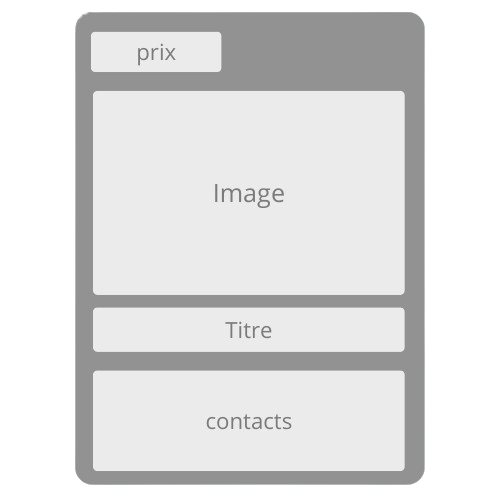
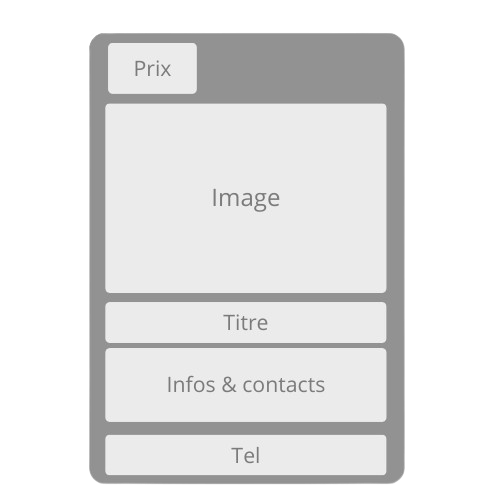
Finishing the card Type D

Changed region(s): [[0.15, 0.0, 0.87, 0.99], [0.42, 0.36, 0.57, 0.42]]

diff --git a/components/Shop.vue b/components/Shop.vue
@@ -1,5 +1,5 @@
 <template>
-    <div v-if="conf" :style="`--bg-color: ${conf.bg}59 ;--bg-card :${conf.bg}50 ; --text-color: ${conf.textColor}; --bg-pub : ${conf.bg}B3 ;`" class="wrapper rounded-xl p-5 border">
+    <div v-if="conf" :style="`--bg-color: ${conf.bg}59 ;--bg-card :${conf.bg}50 ; --text-color: ${conf.textColor}; --bg-pub : ${conf.bg}B3 ; --bg : ${conf.bg}`" class="wrapper rounded-xl p-5 border">
         
         <div v-if="conf.logo" class="flex justify-center">
             <img :src="conf.logo" alt="logo" class="w-1/2 h-auto"/>
@@ -10,18 +10,20 @@
 
         <nav class="flex items-center justify-around gap-10">
             <UInput type="text" icon="i-line-md-search" placeholder="Rechercher ... " 
+                variant="none"
                 :ui="{
-                    base: 'border-white/70 rounded-md placeholder:text-white/60',
+                    base: 'rounded-md placeholder:text-white/60',
+                    root: 'border-2 rounded-lg hover:border-white/60 focus-within:border-white/60 transition-all duration-300 ease-in-out',
                 }"
             />
 
             <ul class="flex items-center gap-3 mr-3">
                 <li>
-                    <UButton icon="i-mynaui-envelope" label="email" :to="`mailto:${conf.email}`" class="bg-white/50 hover:bg-red-500 hover:translate-y-1 transition-all duration-300 ease-in-out"/>
+                    <UButton icon="i-mynaui-envelope" label="email" :to="`mailto:${conf.email}`" class="bg-white/50 hover:bg-red-500 shadow shadow-black/70 hover:translate-y-1 transition-all duration-300 ease-in-out"/>
                 </li>
                 
                 <li>
-                    <UButton icon="i-lineicons-phone" label="phone" :to="`tel:${conf.phone}`" class="bg-white/50 hover:bg-blue-500 hover:translate-y-1 transition-all duration-300 ease-in-out"/>
+                    <UButton icon="i-lineicons-phone" label="phone" :to="`tel:${conf.phone}`" class="bg-white/50 hover:bg-blue-500 shadow shadow-black/70 hover:translate-y-1 transition-all duration-300 ease-in-out"/>
                 </li>
             </ul>
         </nav>
@@ -35,18 +37,26 @@
                 <h2 class="logo font-extrabold text-6xl mb-10 ml-4">{{ conf.name }}</h2>
                 <p>{{ conf.description }}</p>
                 <address v-if="conf.address" class="border border-white/40 cursor-pointer rounded-xl bg-black/20 p-2 w-max mt-8">{{ conf.address }}</address>
-             </div>
-             <div>
-                 <UCarousel
+            </div>
+                        
+            <div class="border-l-2 border-white/30 border-dashed w-full h-full overflow-hidden flex items-center justify-center ">
+                <UCarousel
                     v-slot="{ item }"
                     loop
                     :autoplay="{ delay: 5000 }"
                     :items="ProdPics"
-                    :ui="{}"
+                    :ui="{ item: 'w-full h-full' }"
                 >
-                    <img :src="item" class="h-[98%] border-4 rounded-2xl w-[98%] object-center" alt="product image" />
+                    <!-- Container to constrain image dimensions -->
+                    <div class="w-full h-full flex items-center justify-center p-1">
+                    <img 
+                        :src="item" 
+                        class="w-[500px] aspect-square object-scale-down rounded-2xl"
+                        alt="product image" 
+                    />
+                    </div>
                 </UCarousel>
-             </div>
+            </div>
         </section>
 
         <section>
@@ -96,6 +106,16 @@
 
                     <div v-else-if="conf.cardType ==='D' ">
                         <!-- D TYPE COMPONENET -->
+                         <CardsTypeD 
+                            :product="product"
+                            :fb="conf.fb_url"
+                            :ig="conf.ig_url"
+                            :email="conf.email"
+                            :phone="conf.phone"
+                            :address="conf.address"
+                            :shipping="conf.livraison"
+                            :style="`--font-style: 'Great Vibes', cursive;`"
+                        />
                     </div>
                 </div>
             </div>
@@ -135,6 +155,7 @@
 </template>
     
 <script setup lang='ts'>
+import Card from '@nuxt/ui/runtime/components/Card.vue';
 import type { Produit, shopConfT } from '~/types/GeneraleT';
 
 
@@ -143,14 +164,23 @@ import type { Produit, shopConfT } from '~/types/GeneraleT';
         shopProd : Produit[],
     }>()
 
-    const ProdPics = [
-  'https://picsum.photos/468/468?random=1',
-  'https://picsum.photos/468/468?random=2',
-  'https://picsum.photos/468/468?random=3',
-  'https://picsum.photos/468/468?random=4',
-  'https://picsum.photos/468/468?random=5',
-  'https://picsum.photos/468/468?random=6'
-]
+//     const ProdPics = [
+//   'https://picsum.photos/468/468?random=1',
+//   'https://picsum.photos/468/468?random=2',
+//   'https://picsum.photos/468/468?random=3',
+//   'https://picsum.photos/468/468?random=4',
+//   'https://picsum.photos/468/468?random=5',
+//   'https://picsum.photos/468/468?random=6'
+// ]
+
+const ProdPics = [
+  'https://fakestoreapi.com/img/81fPKd-2AYL._AC_SL1500_.jpg',  // Backpack
+  'https://fakestoreapi.com/img/71-3HjGNDUL._AC_SY879._SX._UX._SY._UY_.jpg',  // Shirt
+  'https://fakestoreapi.com/img/71li-ujtlUL._AC_UX679_.jpg',  // Jeans
+  'https://fakestoreapi.com/img/71YXzeOuslL._AC_UY879_.jpg',  // Tech
+  'https://fakestoreapi.com/img/61pHAEJ4NML._AC_UX679_.jpg',  // Jewelry
+  'https://fakestoreapi.com/img/51UDEzMJVpL._AC_UL640_QL65_ML3_.jpg'  // Electronics
+];
 
 
 //TODO: find a way to get the products using conf.products ... 

diff --git a/components/Cards/TypeD.vue b/components/Cards/TypeD.vue
@@ -1,13 +1,38 @@
 <template>
-        <div class="border-2 rounded-lg p-4 flex flex-col items-center CardColor relative shadow-lg shadow-black/80 hover:shadow-white/50 transition-all duration-300 ease-in-out">
-            <div class="w-[100px] h-[100px] bg-white absolute right-0 top-0 rotate-12 -z-10" 
+        <div class="rounded-lg p-4 flex flex-col items-center CardColor relative bg-[var(--deep-dark-blue)] shadow-lg shadow-black/80 hover:shadow-white/50 transition-all duration-300 ease-in-out curve">
+            <div class="w-[100px] h-[100px] bg-white absolute right-0 bottom-0 rotate-12 -z-10" 
                 style="clip-path:polygon(50% 0%, 61% 35%, 98% 35%, 68% 57%, 79% 91%, 50% 70%, 21% 91%, 32% 57%, 2% 35%, 39% 35%);">
 
             </div>
-            <div class="w-max p-2 self-start font-[--font-style] flex items-center gap-2">
-                <UIcon name="i-grommet-icons-money" class="text-md text-yellow-400" />
-                <p class="text-[11px]"><span class="text-2xl font-extrabold ">{{ product.puv }}</span> DZD</p>
-            </div>
+
+
+<div class="flex items-center justify-between w-full mb-3 ">
+
+    <ul class="flex gap-3 items-center">
+
+              <li v-if="fb">
+                  <a :href="fb" target="_blank" class="flex items-center gap-2 py-1 px-2 bg-[#3b5998] rounded-md hover:-translate-y-1 transition-all duration-300 ease-in-out">
+                      <UIcon name="i-mdi-facebook" class="text-2xl" />                            
+                  </a>
+              </li>
+
+              <li v-if="ig">
+                  <a :href="ig" target="_blank" class="flex items-center gap-2 py-1 px-2 bg-gradient-to-r from-purple-600 via-pink-600 to-yellow-400 rounded-md hover:-translate-y-1.5 transition-all duration-300 ease-in-out">
+                     <UIcon name="i-hugeicons-instagram" class="text-2xl" />                                                        
+                  </a>
+              </li>
+
+               <li >
+                  <a :href="`mailto:${email}`" target="_blank" class="flex items-center gap-2 py-1 px-2 bg-gradient-to-r from-red-500 to bg-red-700 rounded-md hover:-translate-y-2 transition-all duration-300 ease-in-out">
+                     <UIcon name="i-material-symbols-mail" class="text-2xl" />
+                  </a>
+              </li>
+    </ul>
+        <div class="w-max p-1 rounded font-[--font-style] flex items-center gap-2 bg-black/30 ">
+            <p class="text-[11px]"><span class="text-lg font-extrabold ">{{ product.puv }}</span> DZD</p>
+            
+        </div>
+</div>
 
             <div class="relative">
                 <img v-if="product.img" :src="product.img" :alt="product.name" class="w-[100%] h-[300px] border-2 rounded-3xl  object-contain" />
@@ -31,10 +56,11 @@
                     </template>
                 </UModal>
             </div>
-
+            
             <div class="mt-4 mb-2">
                 <p class="text-xl font-bold">{{ product.name }}</p>
             </div>
+
 
             <div class="self-start border-t-2 w-full pt-3 ">
                 <p class="font-extrabold flex items-center gap-2"><span class="flex items-center gap-1"><UIcon name="i-carbon-delivery"/> Livraison :</span>
@@ -43,27 +69,8 @@
                 </p>
 
                 <p class="font-extrabold flex items-center gap-2 mb-3" v-if="address"><span class="flex items-center gap-1"><UIcon name="i-entypo-address"/> Addresse :</span> <span class="text-sm">{{ address }}</span></p>
-                <span class="text-sm w-max px-2 py-1 rounded bg-white/10 flex items-center gap-1"><UIcon name="grommet-icons:contact" /> Contactez nous sur</span>
-                <ul class="flex gap-3 align-center justify-center mt-6 mb-3">
-
-                    <li v-if="fb">
-                        <a :href="fb" target="_blank" class="flex items-center gap-2 py-1 px-2 bg-[#3b5998] rounded-md hover:-translate-y-1 transition-all duration-300 ease-in-out">
-                            <UIcon name="i-mdi-facebook" class="text-2xl" />                            
-                        </a>
-                    </li>
-
-                    <li v-if="ig">
-                        <a :href="ig" target="_blank" class="flex items-center gap-2 py-1 px-2 bg-gradient-to-r from-purple-600 via-pink-600 to-yellow-400 rounded-md hover:-translate-y-1.5 transition-all duration-300 ease-in-out">
-                           <UIcon name="i-hugeicons-instagram" class="text-2xl" />                                                        
-                        </a>
-                    </li>
-
-                     <li >
-                        <a :href="`mailto:${email}`" target="_blank" class="flex items-center gap-2 py-1 px-2 bg-gradient-to-r from-red-500 to bg-red-700 rounded-md hover:-translate-y-2 transition-all duration-300 ease-in-out">
-                           <UIcon name="i-material-symbols-mail" class="text-2xl" />
-                        </a>
-                    </li>
-                </ul>
+              
+                
 
                     <span class="text-sm font-extrabold w-max px-2 py-1 rounded bg-white/10">OU Appelez nous</span>
                     <div class="mt-6">
@@ -91,7 +98,12 @@ import type { Produit } from '~/types/GeneraleT';
         shipping : boolean,
     }>()
 </script>
-    
-<style>
+      
+<style scoped>
+.curve{
 
+     clip-path: path (M 10,20 L 68,20 A 10,18 0,0,0 70,10 L 70,10 A 10,10 0,0,1 80,0 L 140,0 A 10,10 0,0,1 150,10 L 158,190 A 10,10 0,0,1 148,200 L 10,200 A 10,10 0,0,1 0,190 L 0,30 A 10,10 0,0,1 10,20 Z);
+     overflow: hidden;
+    
+}
 </style>

diff --git a/pages/OnlineShop/index.vue b/pages/OnlineShop/index.vue
@@ -234,11 +234,18 @@ const LoyoutOptions :{value: card_t , label :string , src : string}[] = [
 const ProductsList = ref<string[]>([])
 
 //TODO: fetch the products from the server
+  
+  
+  
+  
+  
+  
+
 const ProductsL =ref<Produit[]>([
     {
             id: 1,
             name: 'Product 1',
-            img: 'https://picsum.photos/468/468?random=1',
+            img: 'https://fakestoreapi.com/img/81fPKd-2AYL._AC_SL1500_.jpg',  // Backpack,
             category: 'Accessoire',
             pua: 10,
             puv: 10,
@@ -247,7 +254,7 @@ const ProductsL =ref<Produit[]>([
         {
             id: 2,
             name: 'Product 2',
-            img: 'https://picsum.photos/468/468?random=2',
+            img:'https://fakestoreapi.com/img/71-3HjGNDUL._AC_SY879._SX._UX._SY._UY_.jpg',  // Shirt,
             category: 'Accessoire',
             pua: 10,
             puv: 10,
@@ -256,7 +263,7 @@ const ProductsL =ref<Produit[]>([
         {
             id: 3,
             name: 'Product 3',
-            img: 'https://picsum.photos/468/468?random=3',
+            img:'https://fakestoreapi.com/img/71li-ujtlUL._AC_UX679_.jpg',  // Jeans,
             category: 'Accessoire',
             pua: 10,
             puv: 10,
@@ -265,7 +272,7 @@ const ProductsL =ref<Produit[]>([
         {
             id: 4,
             name: 'Product 4',
-            img: 'https://picsum.photos/468/468?random=4',
+            img:'https://fakestoreapi.com/img/71YXzeOuslL._AC_UY879_.jpg',  // Tech,
             category: 'Accessoire',
             pua: 10,
             puv: 10,
@@ -274,7 +281,7 @@ const ProductsL =ref<Produit[]>([
         {
             id: 5,
             name: 'Product 5',
-            img: 'https://picsum.photos/468/468?random=5',
+            img:'https://fakestoreapi.com/img/61pHAEJ4NML._AC_UX679_.jpg',  // Jewelry,
             category: 'Accessoire',
             pua: 10,
             puv: 10,
@@ -283,7 +290,7 @@ const ProductsL =ref<Produit[]>([
         {
             id: 6,
             name: 'Product 6',
-            img: 'https://picsum.photos/468/468?random=6',
+            img:'https://fakestoreapi.com/img/51UDEzMJVpL._AC_UL640_QL65_ML3_.jpg' ,// Electronics
             category: 'Accessoire',
             pua: 10,
             puv: 10,

diff --git a/components/Cards/TypeB.vue b/components/Cards/TypeB.vue
@@ -12,22 +12,23 @@
           
 
             <div class="relative">
-                <img v-if="product.img" :src="product.img" :alt="product.name" class="h-[98%] border-2 rounded-md w-[98%] object-center" />
+                <img v-if="product.img" :src="product.img" :alt="product.name" class="w-[100%] h-[300px] border-2 rounded-3xl  object-contain" />
                 <UModal  
-
+                 fullscreen
                 :ui="{
                     overlay: 'bg-black/80',
-                    body: 'bg-[var(--deep-dark-blue)] border-none outline-none ',
-                    header: 'bg-[var(--deep-dark-blue)] border border-none ',
+                    body: 'bg-black/10 border-none outline-none ',
+                    header: 'bg-black/90 border border-none ',
                     close : 'bg-red-500 hover:bg-red-600',
-                    content: 'border rounded-sm',
+                    content: 'border-0 rounded-sm',
+                    wrapper:'border-0'
                 }"
                 >
                     <UButton class="absolute bottom-2 right-4 bg-black/60 hover:bg-black/70 text-white" icon="i-majesticons-open"/>
 
                     <template #body>
                         <div class="w-[100%] h-[100%] flex justify-center items-center">
-                            <img v-if="product.img" :src="product.img" :alt="product.name" class="w-[90%]" />
+                            <img v-if="product.img" :src="product.img" :alt="product.name" class="w-[90%] h-[90%] object-contain" />
                         </div>
                     </template>
                 </UModal>

diff --git a/components/Cards/TypeC.vue b/components/Cards/TypeC.vue
@@ -8,22 +8,23 @@
           
 
             <div class="relative">
-                <img v-if="product.img" :src="product.img" :alt="product.name" class="h-[98%] border-2 rounded-md w-[98%] object-center" />
+                <img v-if="product.img" :src="product.img" :alt="product.name" class="w-[100%] h-[300px] border-2 rounded-3xl  object-contain" />
                 <UModal  
-
+                 fullscreen
                 :ui="{
                     overlay: 'bg-black/80',
-                    body: 'bg-[var(--deep-dark-blue)] border-none outline-none ',
-                    header: 'bg-[var(--deep-dark-blue)] border border-none ',
+                    body: 'bg-black/10 border-none outline-none ',
+                    header: 'bg-black/90 border border-none ',
                     close : 'bg-red-500 hover:bg-red-600',
-                    content: 'border rounded-sm',
+                    content: 'border-0 rounded-sm',
+                    wrapper:'border-0'
                 }"
                 >
                     <UButton class="absolute bottom-2 right-4 bg-black/60 hover:bg-black/70 text-white" icon="i-majesticons-open"/>
 
                     <template #body>
                         <div class="w-[100%] h-[100%] flex justify-center items-center">
-                            <img v-if="product.img" :src="product.img" :alt="product.name" class="w-[90%]" />
+                            <img v-if="product.img" :src="product.img" :alt="product.name" class="w-[90%] h-[90%] object-contain" />
                         </div>
                     </template>
                 </UModal>
